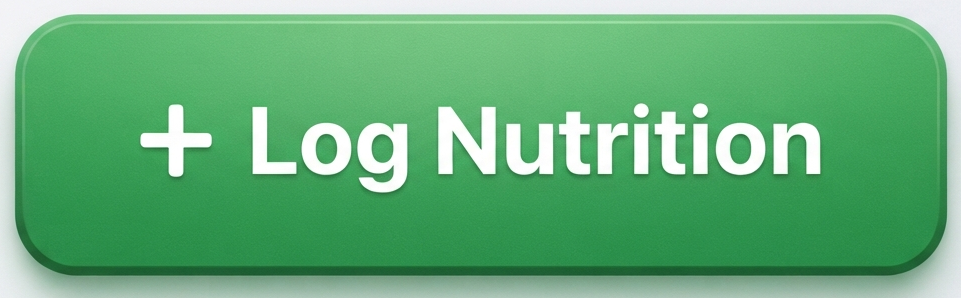
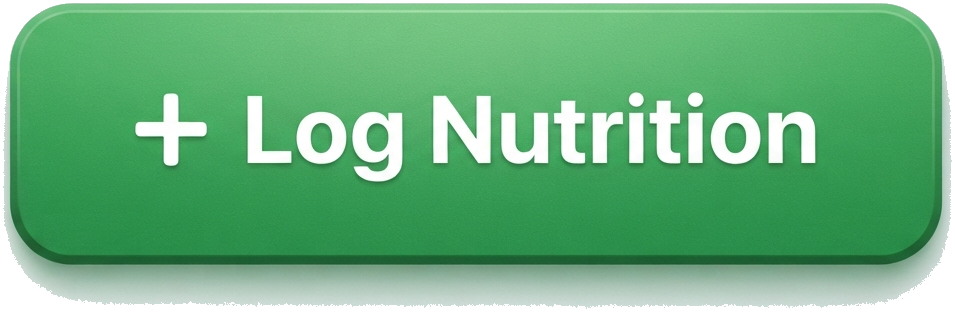
Fix white corner artifacts on quick-add buttons via true alpha cutout (v1.4.7)
Previous rectangular crop left background triangles visible in the
button's rounded corners. Now flood-fills background from the image
border to build a real alpha mask (preserving the white text, which
isn't connected to the outer background), so the button renders with
transparent corners and its own soft shadow on any card background.

diff --git a/index.html b/index.html
@@ -350,9 +350,9 @@ summary.subcard-summary .chevron{color:var(--muted);font-size:12px;flex:none;mar
 .pill-btn:active{transform:translateY(2px);box-shadow:0 1px 0 var(--btn-lo), inset 0 1px 0 rgba(255,255,255,.3);}
 .pill-btn.green{background:linear-gradient(180deg, color-mix(in srgb, var(--good) 100%, white 15%), var(--good));flex:1.5;}
 .pill-btn.red{background:linear-gradient(180deg, color-mix(in srgb, var(--critical) 100%, white 15%), var(--critical));flex:1;}
-.pill-btn.img-btn{padding:0;background:none;box-shadow:0 3px 8px rgba(0,0,0,.3);height:56px;flex:1;overflow:hidden;}
-.pill-btn.img-btn:active{box-shadow:0 1px 4px rgba(0,0,0,.25);}
-.pill-btn.img-btn img{width:100%;height:100%;object-fit:cover;display:block;}
+.pill-btn.img-btn{padding:0;background:none;box-shadow:none;height:56px;flex:1;}
+.pill-btn.img-btn:active{box-shadow:none;}
+.pill-btn.img-btn img{width:100%;height:100%;object-fit:contain;display:block;}
 
 /* ---- popup stat rows (large readable numbers, no chart) ---- */
 .popup-stat{padding:12px 0;border-top:1px solid var(--grid);}
@@ -384,7 +384,7 @@ const STORE_KEY = 'healthscore_v1';
 // change from here on so a reload can be visually confirmed against what was
 // actually deployed (distinct from STORE_KEY, which is the data schema key
 // and unrelated to app code version).
-const APP_VERSION = '1.4.6';
+const APP_VERSION = '1.4.7';
 
 function defaultState(){
   return {
